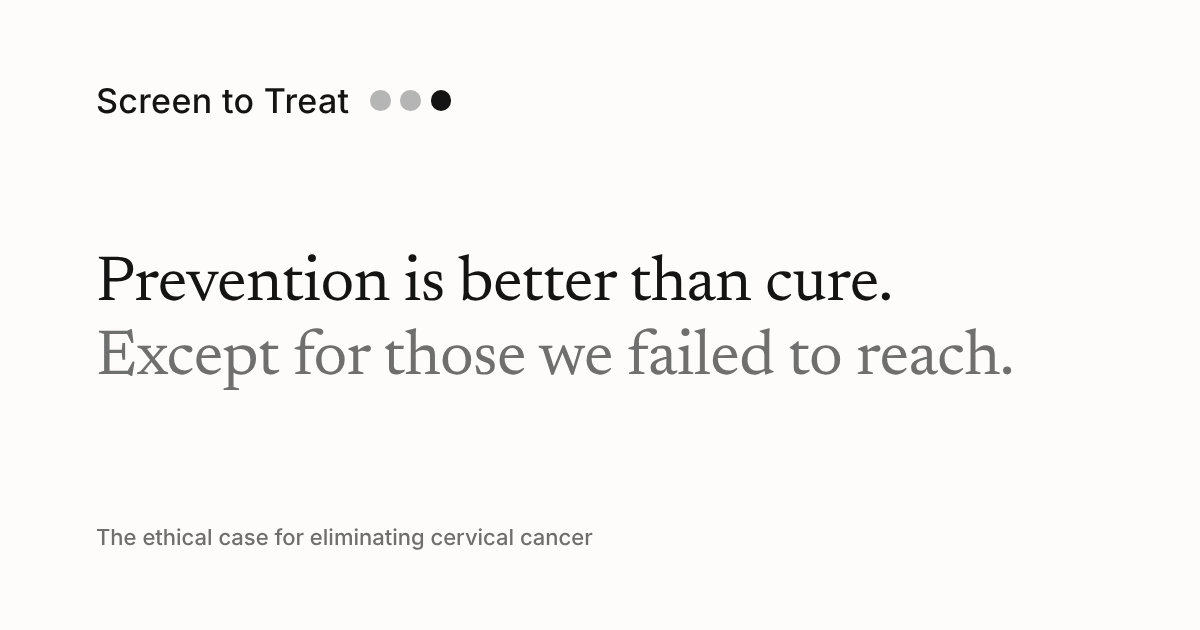
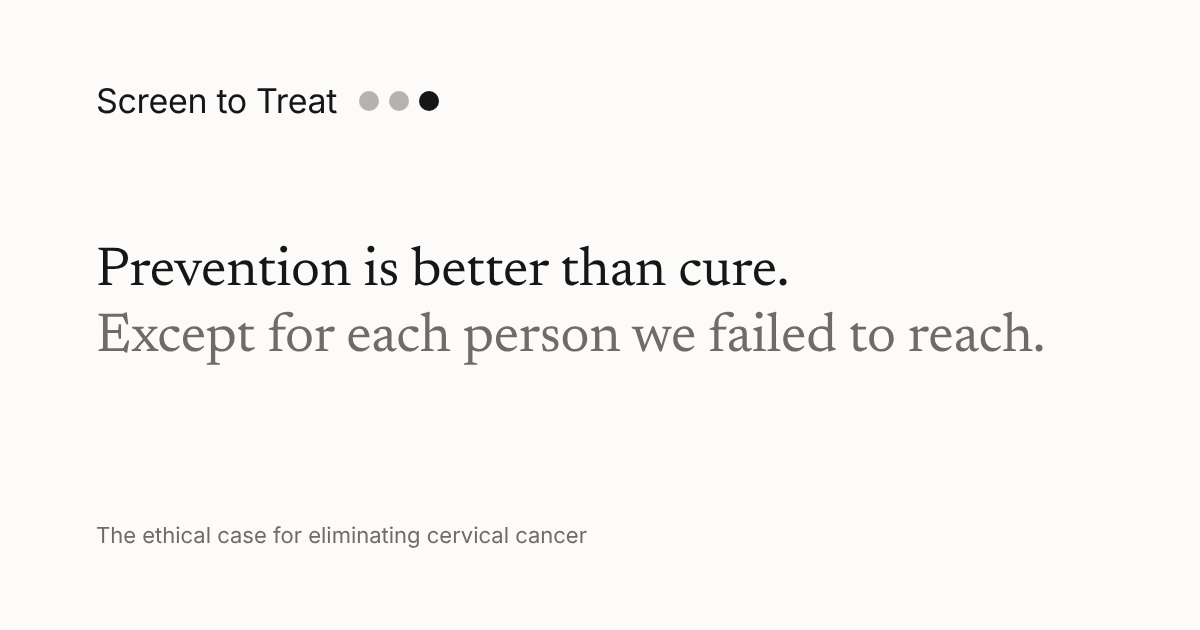
Home line: each person we failed to reach; refresh share image
Claude-Session: https://claude.ai/code/session_01QJyXZs1acobtUu9Cfj3TXz

Changed region(s): [[0.0617, 0.3921, 0.8633, 0.6333], [0.0925, 0.8444, 0.4933, 0.8746], [0.0925, 0.1206, 0.4008, 0.181]]

diff --git a/index.html b/index.html
@@ -9,12 +9,12 @@
   <meta property="og:type" content="website">
   <meta property="og:site_name" content="Screen to Treat">
   <meta property="og:title" content="Screen to Treat | The ethical case for eliminating cervical cancer">
-  <meta property="og:description" content="Prevention is better than cure. Except for those we failed to reach.">
+  <meta property="og:description" content="Prevention is better than cure. Except for each person we failed to reach.">
   <meta property="og:url" content="https://dawnp0h.github.io/screen2treat/">
   <meta property="og:image" content="https://dawnp0h.github.io/screen2treat/assets/og-image.png">
   <meta property="og:image:width" content="1200">
   <meta property="og:image:height" content="630">
-  <meta property="og:image:alt" content="Screen to Treat logo with the line Prevention is better than cure. Except for those we failed to reach.">
+  <meta property="og:image:alt" content="Screen to Treat logo with the line Prevention is better than cure. Except for each person we failed to reach.">
   <meta name="twitter:card" content="summary_large_image">
   <link rel="stylesheet" href="assets/css/style.css?v=2611231808">
   <script>try{var t=localStorage.getItem("s2t-theme"),c=localStorage.getItem("s2t-palette");if(t==="dark")document.documentElement.setAttribute("data-theme","dark");if(c==="cvd")document.documentElement.setAttribute("data-palette","cvd");}catch(e){}</script>
@@ -34,7 +34,7 @@
 
         <h1 class="statement">
           <span>Prevention is better than cure.</span>
-          <span class="quiet">Except for those we failed to reach.</span>
+          <span class="quiet">Except for each person we failed to reach.</span>
         </h1>
 
         <p class="cta">
